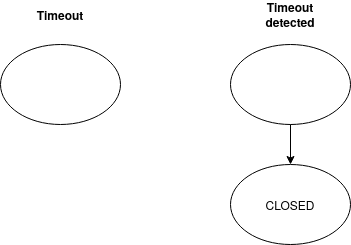
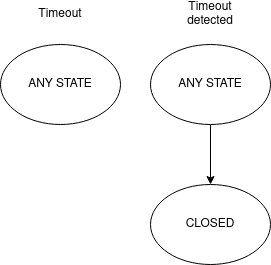
Format and edit documentation

diff --git a/doc/doxygen/markdown/close_connection.md b/doc/doxygen/markdown/close_connection.md
@@ -4,13 +4,17 @@
 
 \image html connection_reset.png
 
-If one of the communication partners wants to close the connection, he sends a ConnectionResetMessage to the other and changes his state to
-WAITING_FOR_CONNECTION_RESET_ACKNOWLEDGE. The partner sends an AcknowledgeMessage to confirm that the connection will be closed and changes into the
-state CLOSED. After receiving the AcknowledgeMessage, the first partner also changes into the state CLOSED. No further messages can be sent or
-received on this connection and both partners remove it from their list of connections.
+If one of the communication partners wants to close the connection, a ConnectionResetMessage is sent to the associated
+connection partner and the state is changed to WAITING_FOR_CONNECTION_RESET_ACKNOWLEDGE.  
+As soon as the ConnectionResetMessage is received, an AcknowledgeMessage is sent to the sender of the
+ConnectionResetMessage and the connection state is changed to CLOSED.   
+The partner in the state WAITING_FOR_CONNECTION_RESET_ACKNOWLEDGE changes to the state CLOSED after receiving the
+AcknowledgeMessage. the first partner also changes into the state CLOSED.  
+As soon as a communication partner changes its state to CLOSED, the connection is removed from their connection list.
 
 # Timeout
 
 \image html timeout.png
 
-If one partner detects a timeout on a connection, he changes its state to CLOSED and removes it from his list of connections.
+If a timeout is detected, the connection state is changed to CLOSED and removed from the list of connections, regardless
+of the previous connection state.

diff --git a/doc/doxygen/markdown/developer_guide.md b/doc/doxygen/markdown/developer_guide.md
@@ -36,10 +36,12 @@
 
 The following steps can be used to install GTest manually if nothing else works:
 
-1. Download a Google Test release of your choice from the official [GitHub Repository](https://github.com/google/googletest/).
-2. Download the libraries [`libgtest.a`](https://drive.google.com/file/d/1N6hmXb2Ix6fvMJa3-2O6oXuaDyDnkBu6/view?usp=sharing)
-   and [`libgtest_main.a`](https://drive.google.com/file/d/1wEpDVtbNIeSl22TKAJIqRLenjd2q6uM3/view?usp=sharing). (**use the links provided at your own
-   risk**)
+1. Download a Google Test release of your choice from the
+   official [GitHub Repository](https://github.com/google/googletest/).
+2. Download the
+   libraries [`libgtest.a`](https://drive.google.com/file/d/1N6hmXb2Ix6fvMJa3-2O6oXuaDyDnkBu6/view?usp=sharing)
+   and [`libgtest_main.a`](https://drive.google.com/file/d/1wEpDVtbNIeSl22TKAJIqRLenjd2q6uM3/view?usp=sharing). (**use
+   the links provided at your own risk**)
 3. Copy both of these files into lib of MinGW (
    ex.: `C:\Program Files\mingw-w64\x86_64-8.1.0-posix-seh-rt_v6-rev0\mingw64\lib`).
 4. Go to your extracted GTest folder, navigate to `googletest\include\gtest` and copy the whole folder

diff --git a/doc/doxygen/markdown/connection_establishment.md b/doc/doxygen/markdown/connection_establishment.md
@@ -2,7 +2,9 @@
 
 \image html handshake.png
 
-First, the client sends a ConnectionRequestMessage to the server to initiate the handshake and changes into the state CLIENT_CONNECTION_REQUEST_SENT.
-The server replies with a ConnectionResponseMessage and changes into the state SERVER_CONNECTION_RESPONSE_SENT. After receiving the message, the
-client sends an AcknowledgeMessage and changes into the state READY. When the server receives the Acknowledge, it also changes into the state READY.
+First, the client sends a ConnectionRequestMessage to the server to initiate the handshake and changes into the state
+CLIENT_CONNECTION_REQUEST_SENT.  
+The server replies with a ConnectionResponseMessage and changes into the state SERVER_CONNECTION_RESPONSE_SENT.  
+The client responds with an AcknowledgeMessage and changes into the state READY.   
+After receiving the Acknowledge of the client, the server changes into the state READY as well.
 

diff --git a/doc/doxygen/markdown/message_structure.md b/doc/doxygen/markdown/message_structure.md
@@ -1,6 +1,6 @@
 \page message-structure Message Structure
 
-| Content       | Escape Sequence (Flag) | Message Type | Message Sequence| Length of Payload | Payload | CRC | Escape Sequence (Flag) | End Marker
+| Content of Payload Message    | Escape Sequence (Flag) | Message Type | Message Sequence| Length of Payload | Payload | CRC | Escape Sequence (Flag) | End Marker
 | :------------- | :----------: | :-----------: | :-----------: | :-----------: | :-----------: | :-----------: | :-----------: | :-----------:
 | Content of Acknowledge Message     | \" | \" | \" | \"  | Acknowledged Message Sequence | \"  | \" | \"
 | Size in Bytes | 1 | 1 | 2 | 0 or 2 | 0 - (2^16-1) | 4 | 1 | 1

diff --git a/doc/doxygen/markdown/game_player_controls.md b/doc/doxygen/markdown/game_player_controls.md
@@ -26,6 +26,6 @@ The player's score is displayed on the top left of the game viewport.
 ### Health
 
 A player is dead if their health reaches zero.  
-If a player is hit by a projectile, their health is decreased by an amount specified by the weapon that spawned the projectile.
-
+If a player is hit by a projectile, their health is decreased by an amount specified by the weapon that spawned the
+projectile.  
 The health bar in the top right shows the remaining lives in form of hearts ♥ , every player starts with 8 lives.

diff --git a/doc/doxygen/markdown/connection_states.md b/doc/doxygen/markdown/connection_states.md
@@ -2,5 +2,5 @@
 
 \image html connection_states.png
 
-If a message is sent, the state is changed from READY to WAITING_FOR_ACKNOWLEDGE. After ACKNOWLEDGEs have been received for all sent messages, the
-state is changed to READY again. 
+If a message is sent, the state is changed from READY to WAITING_FOR_ACKNOWLEDGE.  
+After ACKNOWLEDGEs have been received for all sent messages, the state is changed to READY again. 

diff --git a/doc/doxygen/markdown/mainpage.md b/doc/doxygen/markdown/mainpage.md
@@ -1,3 +1,3 @@
 # Main Page
 
-Welcome to the documentation of the Crossing Consoles game.
+Welcome to the documentation of the **Crossing Consoles** game.
